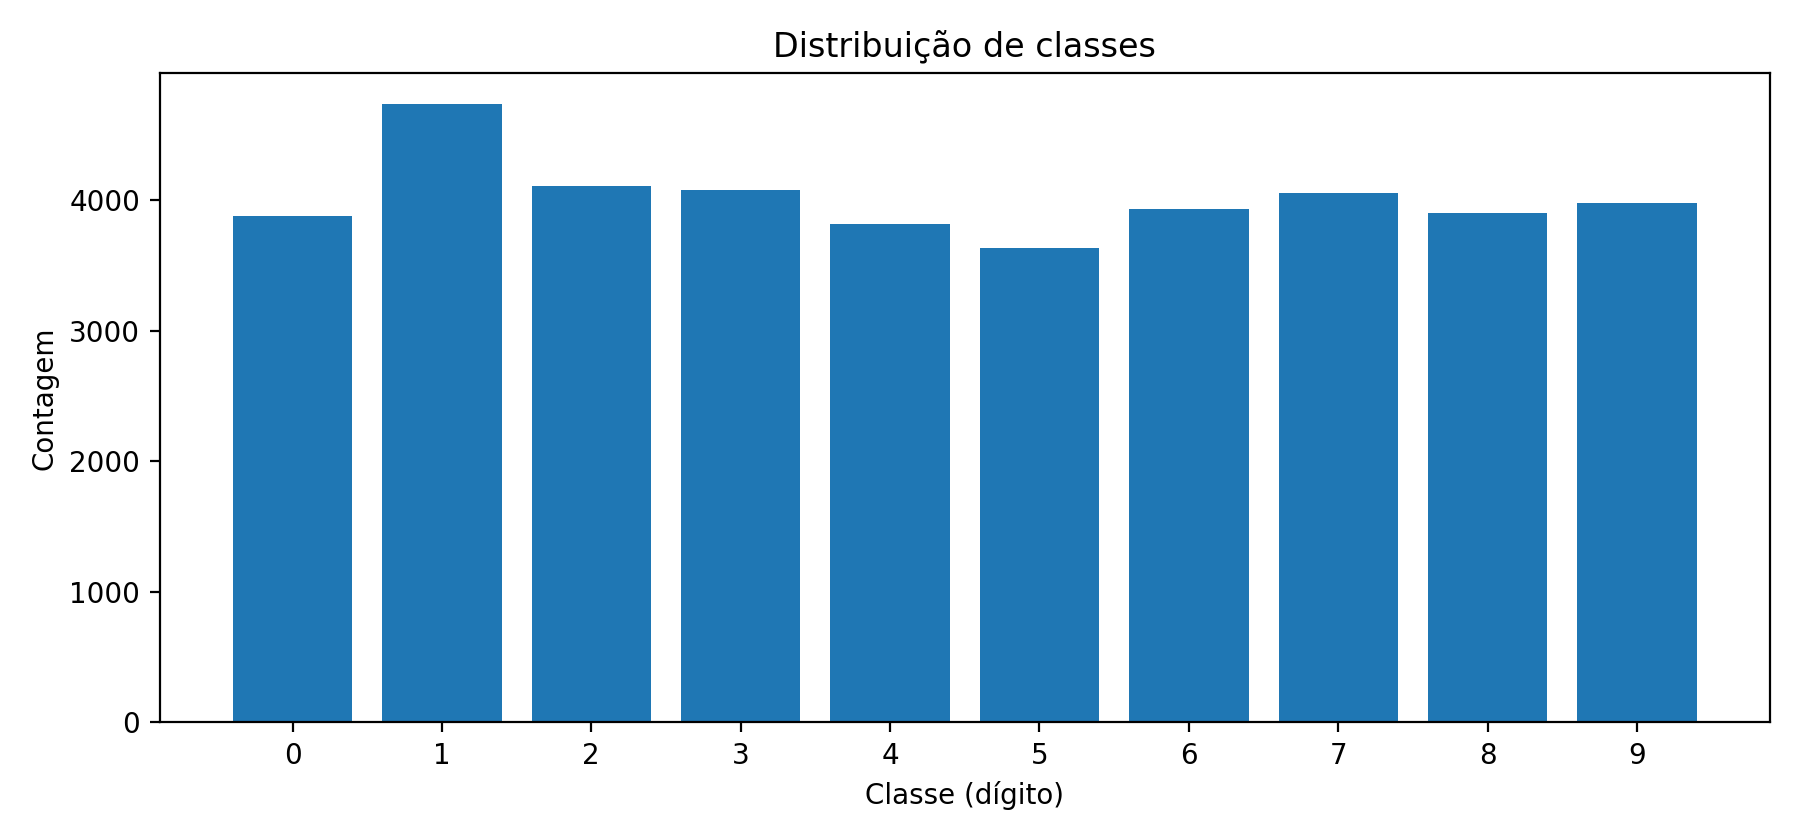
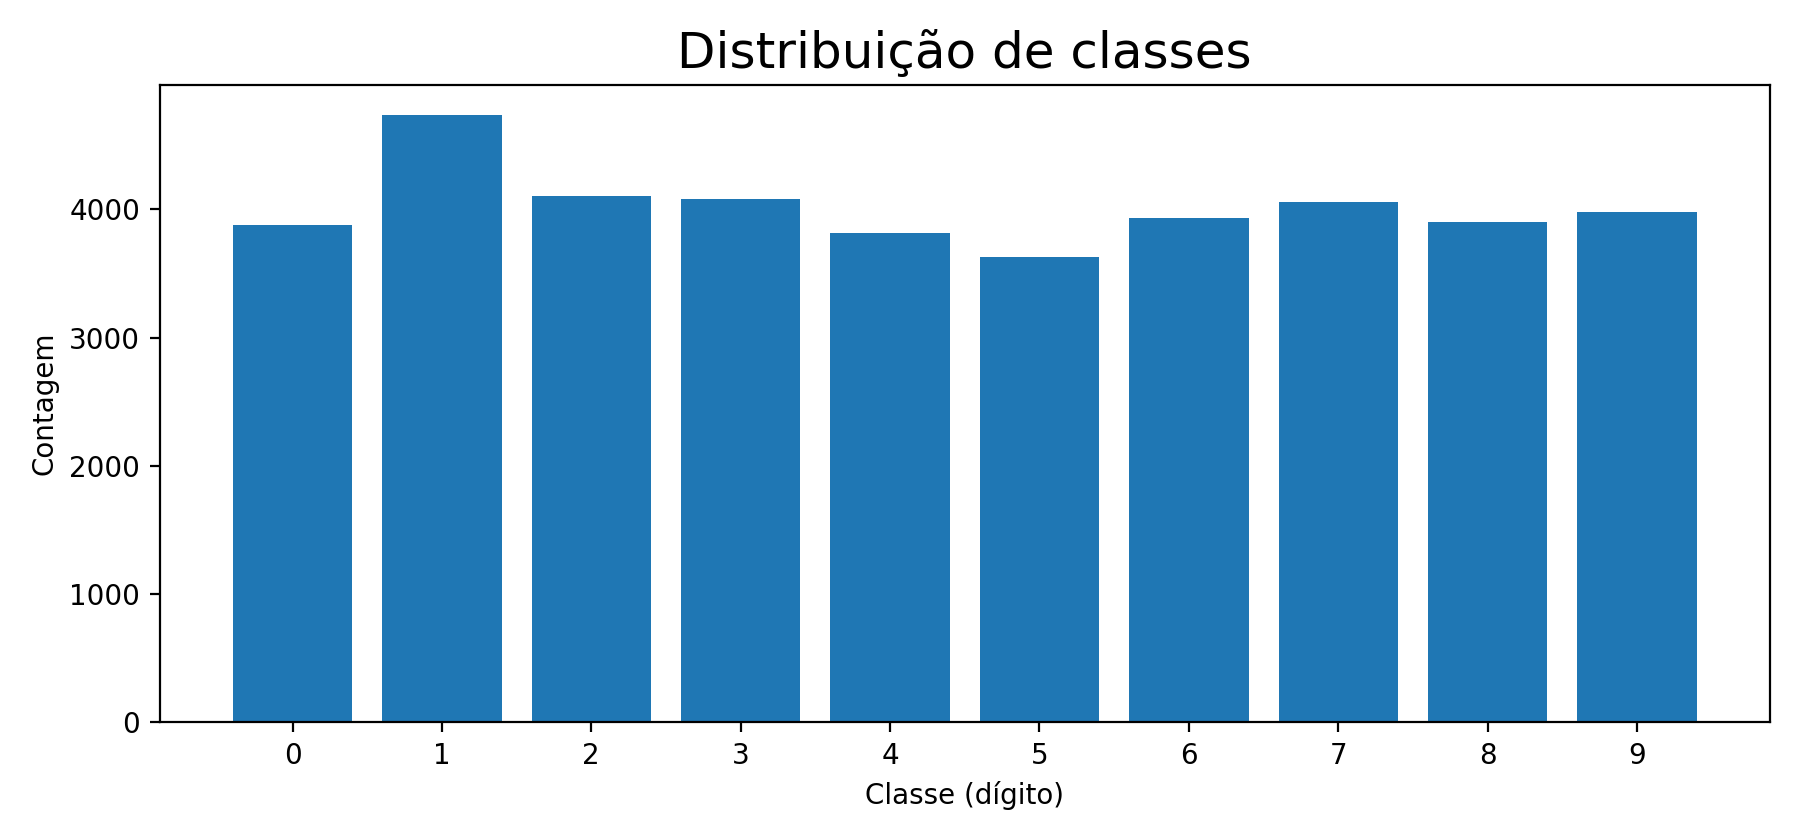
Tarefa2

diff --git a/Tarefa2/main_dataset_stats.py b/Tarefa2/main_dataset_stats.py
@@ -1,38 +1,36 @@
 #!/usr/bin/env python3
 # shebang line for linux / mac
 
-from __future__ import annotations
 
 import argparse, json, math, pathlib, re
 import numpy as np
 import matplotlib.pyplot as plt
 import matplotlib.patches as patches
 
-BOX_COLOR = "green"
 
-
-def read_labels(p: pathlib.Path):
+## Ir buscar os labels e bounding boxes do ficheiro das labels
+def read_labels(caminho: pathlib.Path):
     labels, boxes, ok = [], [], True
-    with open(p, "r", encoding="utf-8") as f:
-        for line in f.readlines()[1:]:
-            line = line.strip()
-            if not line:
+    with open(caminho, "r", encoding="utf-8") as f:
+        for linha in f.readlines()[1:]:
+            linha = linha.strip()
+            if not linha:
                 continue
-            parts = line.split(", ")
-            if len(parts) != 5:
-                parts = [x.strip() for x in line.split(",")]
+            valores = linha.split(", ")
+            if len(valores) != 5:
+                valores = [x.strip() for x in linha.split(",")]
                 ok = False
-            if len(parts) != 5:
-                raise ValueError(f"Linha inválida em {p}: {line}")
-            lab, xmin, ymin, xmax, ymax = map(int, parts)
+                raise ValueError(f"Linha inválida em {caminho}: {linha}")
+            lab, xmin, ymin, xmax, ymax = map(int, valores)
             labels.append(lab)
             boxes.append([xmin, ymin, xmax, ymax])
     return np.asarray(labels, np.int64), np.asarray(boxes, np.int64), ok
 
 
-def list_image_paths(dataset_dir: pathlib.Path):
-    imgdir = dataset_dir / "images"
-    paths = list(imgdir.glob("*.png"))
+## Criar uma lista com os caminhos das imagens do dataset
+def list_image_paths(dataset_path: pathlib.Path):
+    img_path = dataset_path / "images"
+    paths = list(img_path.glob("*.png"))
     try:
         paths.sort(key=lambda x: int(x.stem))
     except ValueError:
@@ -40,22 +38,24 @@ def list_image_paths(dataset_dir: pathlib.Path):
     return paths
 
 
-def bbox_wh_area(b):
+## Calcular a área de uma bounding box
+def bbox_area(b):
     w = (b[:, 2] - b[:, 0]).astype(np.float32)
     h = (b[:, 3] - b[:, 1]).astype(np.float32)
     return w, h, (w * h).astype(np.float32)
 
 
-def collect_dataset_stats(dataset_dir: pathlib.Path, n_classes=10):
-    imgs = list_image_paths(dataset_dir)
-    labdir = dataset_dir / "labels"
+## Recolher estatísticas do dataset
+def collect_dataset_stats(dataset_path: pathlib.Path, n_classes=10):
+    imgs = list_image_paths(dataset_path)
+    labels_path = dataset_path / "labels"
     class_counts = np.zeros(n_classes, np.int64)
     digits_per_image, all_w, all_h, all_area = [], [], [], []
     wpc, hpc, apc = [[] for _ in range(n_classes)], [[] for _ in range(n_classes)], [[] for _ in range(n_classes)]
 
     missing = 0
     for impath in imgs:
-        lp = labdir / f"{impath.stem}.txt"
+        lp = labels_path / f"{impath.stem}.txt"
         if not lp.is_file():
             missing += 1
             continue
@@ -65,7 +65,7 @@ def collect_dataset_stats(dataset_dir: pathlib.Path, n_classes=10):
             if 0 <= lab < n_classes:
                 class_counts[lab] += 1
         if bboxes.size:
-            w, h, area = bbox_wh_area(bboxes)
+            w, h, area = bbox_area(bboxes)
             all_w += w.tolist()
             all_h += h.tolist()
             all_area += area.tolist()
@@ -82,17 +82,11 @@ def collect_dataset_stats(dataset_dir: pathlib.Path, n_classes=10):
     def md(x): return float(np.median(x)) if x.size else float("nan")
 
     return {
-        "dataset_dir": str(dataset_dir),
+        "dataset_path": str(dataset_path),
         "num_images": int(len(imgs)),
         "missing_label_files": int(missing),
         "num_digits_total": int(class_counts.sum()),
         "class_counts": class_counts.tolist(),
-        "digits_per_image": {
-            "mean": m(dpi.astype(np.float32)),
-            "median": md(dpi.astype(np.float32)),
-            "min": int(dpi.min()) if dpi.size else 0,
-            "max": int(dpi.max()) if dpi.size else 0,
-        },
         "digits_per_image_hist": {str(int(k)): int(v) for k, v in zip(*np.unique(dpi, return_counts=True))} if dpi.size else {},
         "bbox": {
             "mean_w": m(all_w), "mean_h": m(all_h), "mean_area": m(all_area),
@@ -106,19 +100,21 @@ def collect_dataset_stats(dataset_dir: pathlib.Path, n_classes=10):
     }
 
 
-def draw_bboxes(ax, bboxes, labels, color=BOX_COLOR):
+## Desenhar as bounding boxes numa imagem
+def draw_bboxes(ax, bboxes, labels, color="#A8DCAB"):
     for (xmin, ymin, xmax, ymax), lab in zip(bboxes.tolist(), labels.tolist()):
         ax.add_patch(patches.Rectangle((xmin, ymin), xmax - xmin, ymax - ymin, fill=False, linewidth=1.7, edgecolor=color))
         ax.text(xmin, max(0, ymin - 2), str(int(lab)), fontsize=8, color=color,
                 bbox=dict(facecolor="black", alpha=0.35, pad=1, edgecolor="none"))
 
 
-def save_mosaic(dataset_dir: pathlib.Path, out_path: pathlib.Path, n=16, cols=4, seed=0, max_images=None):
-    imgs = list_image_paths(dataset_dir)
+## Juntar várias imagens numa só imagem com as respetivas bounding boxes
+def save_mosaic(dataset_path: pathlib.Path, out_path: pathlib.Path, n=16, cols=4, seed=0, max_images=None):
+    imgs = list_image_paths(dataset_path)
     if max_images is not None:
         imgs = imgs[:max_images]
     if not imgs:
-        raise RuntimeError(f"Sem imagens em {dataset_dir}/images")
+        raise RuntimeError(f"Sem imagens em {dataset_path}/images")
 
     rng = np.random.default_rng(seed)
     n = min(n, len(imgs))
@@ -127,24 +123,24 @@ def save_mosaic(dataset_dir: pathlib.Path, out_path: pathlib.Path, n=16, cols=4,
     rows = int(math.ceil(n / cols))
     fig, axes = plt.subplots(rows, cols, figsize=(3.2 * cols, 3.2 * rows))
     axes = np.asarray(axes).reshape(rows, cols)
-    labdir = dataset_dir / "labels"
+    labels_path = dataset_path / "labels"
 
     for i, ax in enumerate(axes.flatten()):
         if i >= n:
             ax.axis("off"); continue
         impath = pathlib.Path(chosen[i])
-        lp = labdir / f"{impath.stem}.txt"
+        lp = labels_path / f"{impath.stem}.txt"
         im = plt.imread(str(impath))
         ax.imshow(im, cmap="gray"); ax.set_xticks([]); ax.set_yticks([])
 
         if lp.is_file():
             try:
                 labels, bboxes, _ = read_labels(lp)
-                draw_bboxes(ax, bboxes, labels, BOX_COLOR)
+                draw_bboxes(ax, bboxes, labels, "#A8DCAB")
                 ax.set_title(f"{impath.stem} ({len(labels)})", fontsize=9)
             except Exception:
                 h, w = im.shape[0], im.shape[1]
-                ax.add_patch(patches.Rectangle((0, 0), w - 1, h - 1, fill=False, linewidth=2.2, edgecolor=BOX_COLOR))
+                ax.add_patch(patches.Rectangle((0, 0), w - 1, h - 1, fill=False, linewidth=2.2, edgecolor="#A8DCAB"))
                 ax.set_title(f"{impath.stem} (label ERROR)", fontsize=9, color="red")
         else:
             ax.set_title(f"{impath.stem} (no labels)", fontsize=9, color="red")
@@ -154,16 +150,16 @@ def save_mosaic(dataset_dir: pathlib.Path, out_path: pathlib.Path, n=16, cols=4,
     fig.savefig(out_path, dpi=200)
     plt.close(fig)
 
-
+## Criar gráficos das várias estatísticas recolhidas
 def plot_class_distribution(stats_list, out_path: pathlib.Path, n_classes=10):
     fig, ax = plt.subplots(figsize=(9, 4.2))
     x = np.arange(n_classes)
     width = 0.8 / max(1, len(stats_list))
     for i, st in enumerate(stats_list):
         counts = np.asarray(st["class_counts"], np.int64)
-        name = st.get("dataset_id") or pathlib.Path(st["dataset_dir"]).name
+        name = st.get("dataset_id") or pathlib.Path(st["dataset_path"]).name
         ax.bar(x + (i - (len(stats_list) - 1) / 2) * width, counts, width=width, label=name)
-    ax.set_xticks(x); ax.set_xlabel("Classe (dígito)"); ax.set_ylabel("Contagem"); ax.set_title("Distribuição de classes")
+    ax.set_xticks(x); ax.set_xlabel("Classe (dígito)"); ax.set_ylabel("Contagem"); ax.set_title("Distribuição de classes", fontsize=18)
     if len(stats_list) > 1:
         ax.legend(fontsize=8)
     fig.tight_layout()
@@ -171,8 +167,7 @@ def plot_class_distribution(stats_list, out_path: pathlib.Path, n_classes=10):
     fig.savefig(out_path, dpi=200)
     plt.close(fig)
 
-
-def plot_digits_per_image_hist(stats, out_path: pathlib.Path):
+def plot_digits_per_image(stats, out_path: pathlib.Path):
     fig, ax = plt.subplots(figsize=(7.5, 4.2))
     hist = stats.get("digits_per_image_hist", {})
     if hist:
@@ -180,7 +175,7 @@ def plot_digits_per_image_hist(stats, out_path: pathlib.Path):
         vs = np.asarray([int(v) for v in hist.values()], np.int64)
         o = np.argsort(ks); ks, vs = ks[o], vs[o]
         ax.bar(ks, vs)
-        ax.set_xlabel("Nº de dígitos na imagem"); ax.set_ylabel("Nº de imagens"); ax.set_title("Histograma do nº de dígitos por imagem")
+        ax.set_xlabel("Nº de dígitos na imagem"); ax.set_ylabel("Nº de imagens"); ax.set_title("Histograma do nº de dígitos por imagem", fontsize=16)
     else:
         ax.text(0.5, 0.5, "Sem dados para histograma.", ha="center", va="center"); ax.axis("off")
     fig.tight_layout()
@@ -188,22 +183,21 @@ def plot_digits_per_image_hist(stats, out_path: pathlib.Path):
     fig.savefig(out_path, dpi=200)
     plt.close(fig)
 
-
-def plot_bbox_size_hist(dataset_dir: pathlib.Path, out_path: pathlib.Path):
+def plot_bbox_size(dataset_path: pathlib.Path, out_path: pathlib.Path):
     areas = []
-    labdir = dataset_dir / "labels"
-    for impath in list_image_paths(dataset_dir):
-        lp = labdir / f"{impath.stem}.txt"
+    labels_path = dataset_path / "labels"
+    for impath in list_image_paths(dataset_path):
+        lp = labels_path / f"{impath.stem}.txt"
         if not lp.is_file():
             continue
         _, b, _ = read_labels(lp)
         if b.size:
-            areas += bbox_wh_area(b)[2].tolist()
+            areas += bbox_area(b)[2].tolist()
 
     fig, ax = plt.subplots(figsize=(7.5, 4.2))
     if areas:
         ax.hist(np.asarray(areas, np.float32), bins=30)
-        ax.set_xlabel("Área da bbox (px²)"); ax.set_ylabel("Frequência"); ax.set_title("Histograma do tamanho dos dígitos (área das bboxes)")
+        ax.set_xlabel("Área da bbox (px²)"); ax.set_ylabel("Frequência"); ax.set_title("Histograma do tamanho dos dígitos", fontsize=16)
     else:
         ax.text(0.5, 0.5, "Sem bboxes para calcular histograma.", ha="center", va="center"); ax.axis("off")
     fig.tight_layout()
@@ -211,46 +205,49 @@ def plot_bbox_size_hist(dataset_dir: pathlib.Path, out_path: pathlib.Path):
     fig.savefig(out_path, dpi=200)
     plt.close(fig)
 
-
 def plot_mean_bbox_area_per_class(stats, out_path: pathlib.Path, n_classes=10):
     fig, ax = plt.subplots(figsize=(9, 4.2))
     x = np.arange(n_classes)
     mean_area = np.asarray(stats["bbox_mean_per_class"]["mean_area"], np.float32)
     ax.bar(x, mean_area)
-    ax.set_xticks(x); ax.set_xlabel("Classe (dígito)"); ax.set_ylabel("Área média (px²)"); ax.set_title("Tamanho médio por classe (área da bbox)")
+    ax.set_xticks(x); ax.set_xlabel("Classe (dígito)"); ax.set_ylabel("Área média (px²)"); ax.set_title("Tamanho médio por classe", fontsize=18)
     fig.tight_layout()
     out_path.parent.mkdir(parents=True, exist_ok=True)
     fig.savefig(out_path, dpi=200)
     plt.close(fig)
 
 
-def _pretty_title(p: pathlib.Path):
+## Definir os títulos dos gráficos com base no nome do ficheiro
+def define_title(caminho: pathlib.Path):
     m = {
         "digits_per_image_hist": "Nº de dígitos por imagem",
         "bbox_area_hist": "Área das bounding boxes",
         "mean_bbox_area_per_class": "Área média por classe",
         "class_distribution": "Distribuição de classes",
     }
-    s = p.stem.lower()
+    s = caminho.stem.lower()
     if s in m:
         return m[s]
     s = re.sub(r"[_\-]+", " ", s).strip()
     return s[:1].upper() + s[1:]
 
 
-def save_statistics_mosaic(pngs, out_path: pathlib.Path, suptitle="Estatísticas", ncols=2):
-    pngs = [p for p in pngs if p.is_file()]
+## Guardar as várias imagens PNG numa única imagem com subplots
+def save_all_statistics(pngs, out_path: pathlib.Path, suptitle="Estatísticas", ncols=2):
+    pngs = [caminho for caminho in pngs if caminho.is_file()]
     if not pngs:
         return
-    n = len(pngs); ncols = max(1, int(ncols)); nrows = int(math.ceil(n / ncols))
+    n = len(pngs)
+    ncols = max(1, int(ncols))
+    nrows = int(math.ceil(n / ncols))
     fig, axes = plt.subplots(nrows, ncols, figsize=(6.2 * ncols, 4.6 * nrows))
     axes = np.asarray(axes).reshape(nrows, ncols)
     for i, ax in enumerate(axes.flatten()):
         if i >= n:
             ax.axis("off"); continue
         img = plt.imread(str(pngs[i]))
-        ax.imshow(img); ax.axis("off"); ax.set_title(_pretty_title(pngs[i]), fontsize=12)
-    fig.suptitle(suptitle, fontsize=18, y=0.98)
+        ax.imshow(img); ax.axis("off")
+    fig.suptitle(suptitle, fontsize=25, y=0.90)
     fig.tight_layout(rect=[0, 0, 1, 0.95])
     out_path.parent.mkdir(parents=True, exist_ok=True)
     fig.savefig(out_path, dpi=200)
@@ -260,14 +257,14 @@ def save_statistics_mosaic(pngs, out_path: pathlib.Path, suptitle="Estatísticas
 def main():
     ap = argparse.ArgumentParser(description="Análise e visualização do dataset MNIST-Detection")
     ap.add_argument("directories", nargs="*", default=["./data/mnist_detection/test/"])
-    ap.add_argument("-od", "--outdir", default="./dataset_stats_out")
+    ap.add_argument("-op", "--out-path", default="./estatisticas_gerais/")
     ap.add_argument("-s", "--seed", type=int, default=0)
     ap.add_argument("-mn", "--mosaic-num", type=int, default=16)
     ap.add_argument("-mc", "--mosaic-cols", type=int, default=4)
     ap.add_argument("-mi", "--max-images", type=int, default=None)
     args = ap.parse_args()
 
-    outdir = pathlib.Path(args.outdir); outdir.mkdir(parents=True, exist_ok=True)
+    out_path = pathlib.Path(args.out_path); out_path.mkdir(parents=True, exist_ok=True)
     primary = pathlib.Path(args.directories[0])
 
     stats_list, primary_stats = [], None
@@ -278,29 +275,29 @@ def main():
         stats_list.append(st)
         if dd.resolve() == primary.resolve():
             primary_stats = st
-        print(f"\nDataset: {dd}")
-        print(f" - Nº total de imagens analisadas: {st['num_images']}  |  Labels em falta: {st['missing_label_files']}")
+        print(f"\nDataset utilizado: {dd}")
+        print(f"\n - Nº total de imagens analisadas: {st['num_images']}  |  Labels em falta: {st['missing_label_files']}")
         print(f" - Nº total de digitos criados: {st['num_digits_total']}")
-        print(f"  Outputs: {outdir}\n")
+        print(f"\nDocumentos gerados em: {out_path}\n")
 
-    with open(outdir / "stats_summary.json", "w", encoding="utf-8") as f:
+    with open(out_path / "estatisticas.json", "w", encoding="utf-8") as f:
         json.dump({"primary_dataset": str(primary), "datasets": stats_list}, f, indent=2, ensure_ascii=False)
 
-    save_mosaic(primary, outdir / "mosaic_with_bboxes.png", n=args.mosaic_num, cols=args.mosaic_cols, seed=args.seed, max_images=args.max_images)
+    save_mosaic(primary, out_path / "bboxes.png", n=args.mosaic_num, cols=args.mosaic_cols, seed=args.seed, max_images=args.max_images)
 
-    class_png = outdir / "class_distribution.png"
+    class_png = out_path / "class_distribution.png"
     plot_class_distribution(stats_list, class_png)
 
     if primary_stats is None:
         primary_stats = stats_list[0]
 
-    tmp = outdir / "estatisticas_graficos"; tmp.mkdir(parents=True, exist_ok=True)
-    p1, p2, p3 = tmp / "digits_per_image_hist.png", tmp / "bbox_area_hist.png", tmp / "mean_bbox_area_per_class.png"
-    plot_digits_per_image_hist(primary_stats, p1)
-    plot_bbox_size_hist(primary, p2)
+    g = out_path / "estatisticas_graficos"; g.mkdir(parents=True, exist_ok=True)
+    p1, p2, p3 = g / "digits_per_image.png", g / "bbox_area.png", g / "mean_bbox_area_per_class.png"
+    plot_digits_per_image(primary_stats, p1)
+    plot_bbox_size(primary, p2)
     plot_mean_bbox_area_per_class(primary_stats, p3)
 
-    save_statistics_mosaic([p1, p2, p3, class_png], outdir / "estatisticas.png", suptitle="Estatísticas", ncols=2)
+    save_all_statistics([p1, p2, p3, class_png], out_path / "estatisticas.png", suptitle="Estatísticas Gerais", ncols=2)
 
 
 
